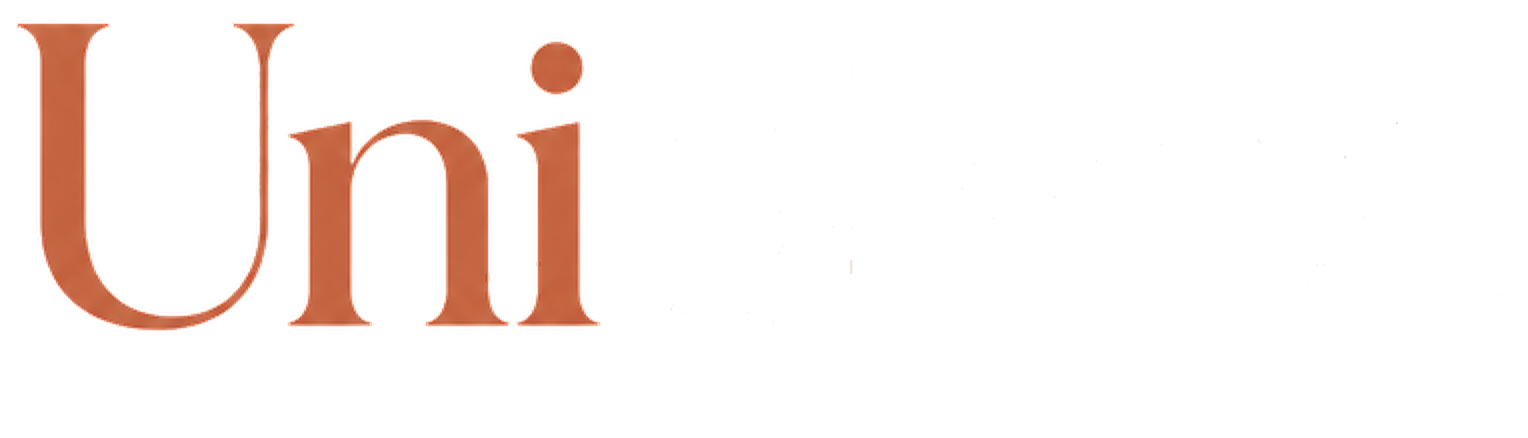
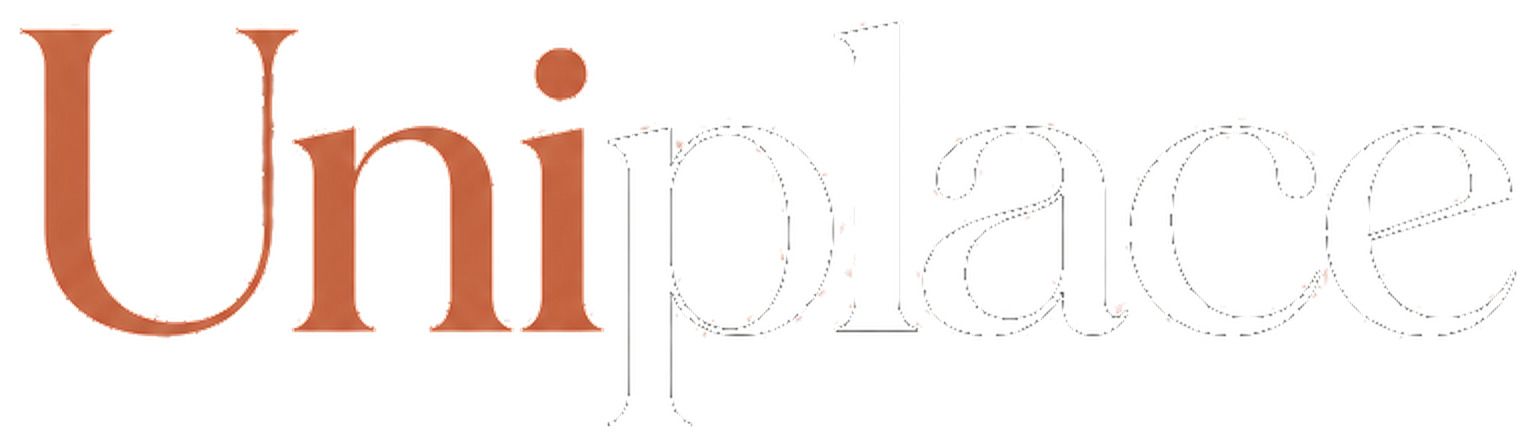
Restore hero wordmark from official 1C PNG at larger size.
Drop the SVG text fallback that changed the typeface; rebuild place-white PNG from logo-1c and enlarge the hero mark.

diff --git a/scripts/refine-hero-wordmark.py b/scripts/refine-hero-wordmark.py
@@ -1,3 +1,8 @@
+"""Build hero wordmark from official logo-1c.png.
+
+Preserve Uni terracotta pixels exactly (keeps original type rendering).
+Only: cream -> transparent, charcoal place -> white.
+"""
 from pathlib import Path
 
 import numpy as np
@@ -7,74 +12,57 @@ src = Image.open("public/brand/logo-1c.png").convert("RGBA")
 arr = np.asarray(src).astype(np.float32)
 rgb = arr[..., :3]
 bg = np.median(arr[0:24, 0:24, :3].reshape(-1, 3), axis=0)
-print("bg", bg)
 
 dist = np.linalg.norm(rgb - bg, axis=-1)
-a = np.clip((dist - 12.0) / 22.0, 0.0, 1.0)
+# Harder key keeps glyph antialias from the original render
+alpha = np.clip((dist - 6.0) / 14.0, 0.0, 1.0)
 
+# Un-premultiply only for classification, not for Uni output
 eps = 1e-4
-a_safe = np.maximum(a, eps)[..., None]
-fg = (rgb - (1.0 - a_safe) * bg) / a_safe
-fg = np.clip(fg, 0, 255)
+a_safe = np.maximum(alpha, eps)[..., None]
+fg = np.clip((rgb - (1.0 - a_safe) * bg) / a_safe, 0, 255)
 
 lum = 0.299 * fg[..., 0] + 0.587 * fg[..., 1] + 0.114 * fg[..., 2]
-warm = (fg[..., 0] > fg[..., 2] + 12) & (fg[..., 0] > 110)
-dark = (lum < 110) & (~warm)
-
-terra = np.array([200.0, 122.0, 94.0])
-white = np.array([255.0, 255.0, 255.0])
-
-out_rgb = fg.copy()
-out_rgb[dark] = white
-
-fringe = (a > 0.02) & (a < 0.92)
-uni_mask = warm | ((~dark) & (fg[..., 0] >= fg[..., 1]) & (fg[..., 0] > 130))
-out_rgb[uni_mask & fringe] = terra
-
-muddy = (a > 0.02) & (fg[..., 0] > 225) & (fg[..., 1] > 200) & (fg[..., 2] > 185)
-a[muddy] = 0
-
-chroma = np.max(fg, axis=-1) - np.min(fg, axis=-1)
-ambiguous = (~warm) & (~dark) & (a > 0) & (chroma < 25) & (lum > 160)
-a[ambiguous] = 0
-
-place_ish = (~uni_mask) & (a > 0.05) & (lum < 160)
-out_rgb[place_ish] = white
+# Place = dark charcoal glyphs from original artwork
+is_place = (lum < 100) & (fg[..., 0] < 120) & (fg[..., 2] < 120) & (fg[..., 0] <= fg[..., 2] + 25)
+# Uni = warm terracotta family — keep original RGB from source (not unpremultiplied)
+is_uni = (rgb[..., 0] > rgb[..., 2] + 8) & (rgb[..., 0] > 130) & (~is_place)
 
 out = np.zeros_like(arr)
-out[..., :3] = out_rgb
-out[..., 3] = a * 255.0
+out[..., 3] = alpha * 255.0
 
-alpha = out[..., 3]
-ys, xs = np.where(alpha > 8)
-pad = 8
+# Default: keep original RGB (preserves Uni anti-alias against cream, then we fix edges)
+out[..., :3] = rgb
+
+# Place -> pure white, keep original alpha fringe
+out[is_place, 0] = 255
+out[is_place, 1] = 255
+out[is_place, 2] = 255
+
+# Uni solid: keep original RGB (true type from logo-1c)
+# Uni fringe (partial alpha): decontaminate cream by un-premultiplying toward terracotta
+terra = np.array([200.0, 122.0, 94.0])
+uni_fringe = is_uni & (alpha > 0.02) & (alpha < 0.85)
+# For uni fringe, set RGB to terracotta (halo-free on dark bg) while keeping soft alpha
+out[uni_fringe, 0] = terra[0]
+out[uni_fringe, 1] = terra[1]
+out[uni_fringe, 2] = terra[2]
+
+# Kill leftover cream-only fringe
+creamish = (alpha > 0) & (dist < 18) & (~is_place) & (~is_uni)
+out[creamish, 3] = 0
+
+# Crop tight
+ys, xs = np.where(out[..., 3] > 10)
+pad = 10
 h, w = out.shape[:2]
 y0, y1 = max(0, int(ys.min()) - pad), min(h, int(ys.max()) + pad + 1)
 x0, x1 = max(0, int(xs.min()) - pad), min(w, int(xs.max()) + pad + 1)
-cropped = out[y0:y1, x0:x1].copy()
+cropped = out[y0:y1, x0:x1].astype(np.uint8)
 
-c = cropped
-crgb = c[..., :3]
-ca = c[..., 3] / 255.0
-d = np.linalg.norm(crgb - bg, axis=-1)
-kill = (ca > 0) & (d < 20) & (ca < 0.75)
-c[kill, 3] = 0
-
-warm2 = (c[..., 0] > c[..., 2] + 10) & (c[..., 0] > 100) & (c[..., 3] > 0)
-partial = (c[..., 3] > 0) & (c[..., 3] < 240)
-c[warm2 & partial, 0] = 200
-c[warm2 & partial, 1] = 122
-c[warm2 & partial, 2] = 94
-
-lum2 = 0.299 * c[..., 0] + 0.587 * c[..., 1] + 0.114 * c[..., 2]
-place2 = (c[..., 3] > 0) & (~warm2) & (lum2 < 200)
-c[place2, 0] = 255
-c[place2, 1] = 255
-c[place2, 2] = 255
-
-# Export 2x for sharper display in hero
-img = Image.fromarray(c.astype(np.uint8), "RGBA")
+img = Image.fromarray(cropped, "RGBA")
+# 2x for retina sharpness without changing type design
 img2 = img.resize((img.width * 2, img.height * 2), Image.Resampling.LANCZOS)
 dest = Path("public/brand/wordmark-1c-place-white.png")
 img2.save(dest, "PNG", optimize=True)
-print("saved", img2.size, dest, dest.stat().st_size)
+print("saved", img2.size, "from crop", img.size, dest.stat().st_size)
